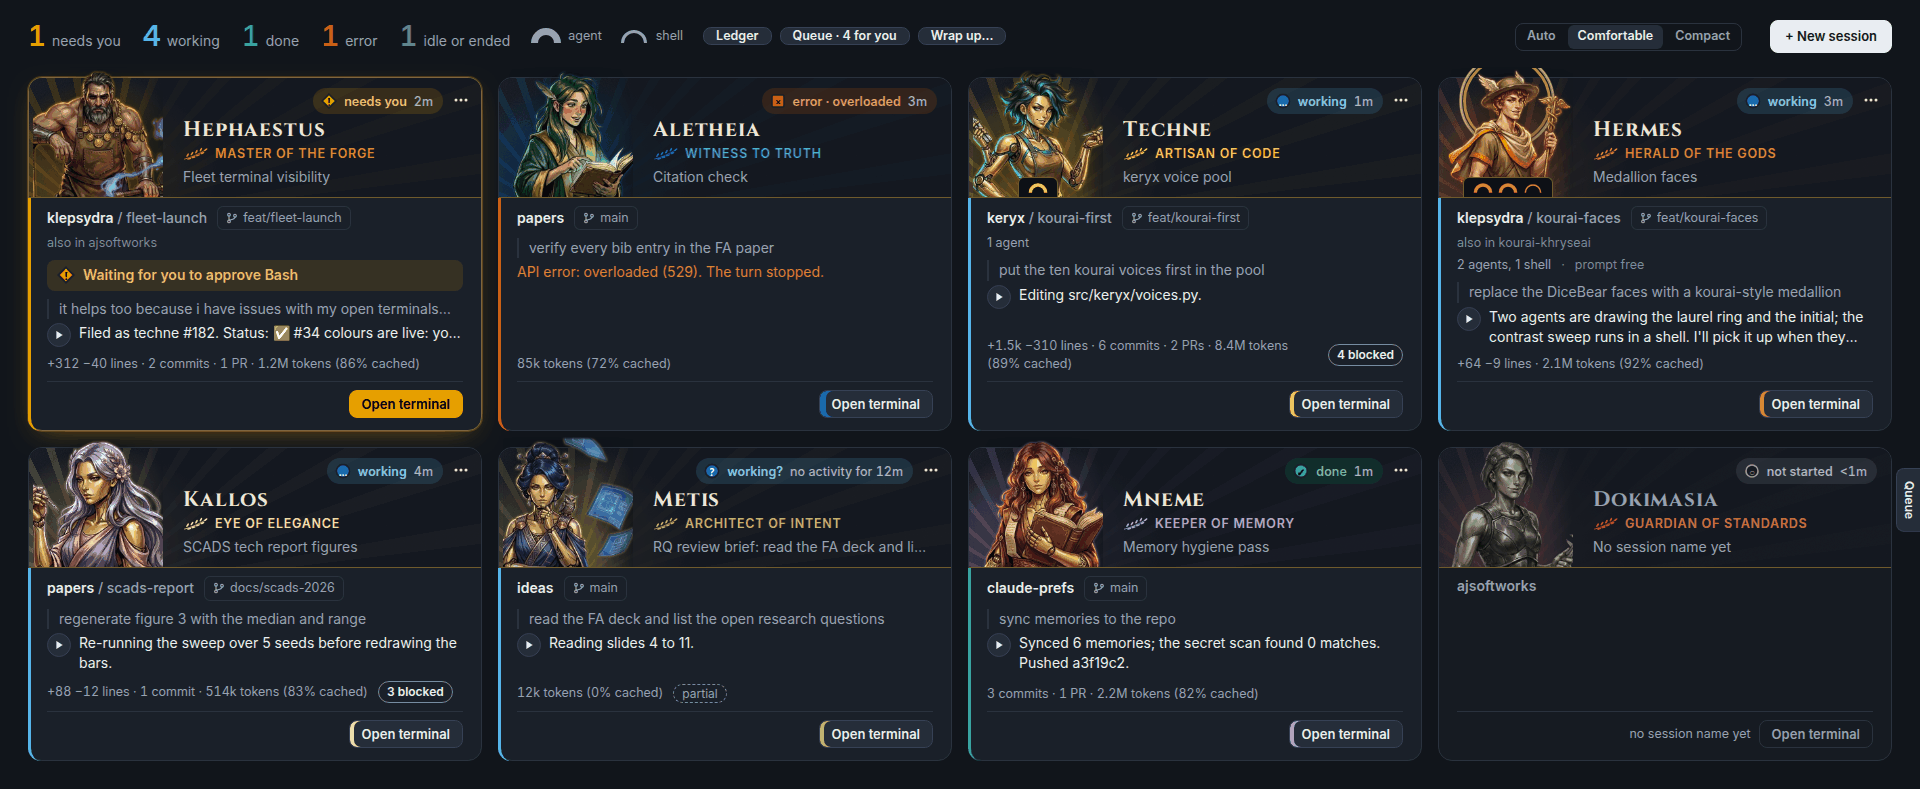
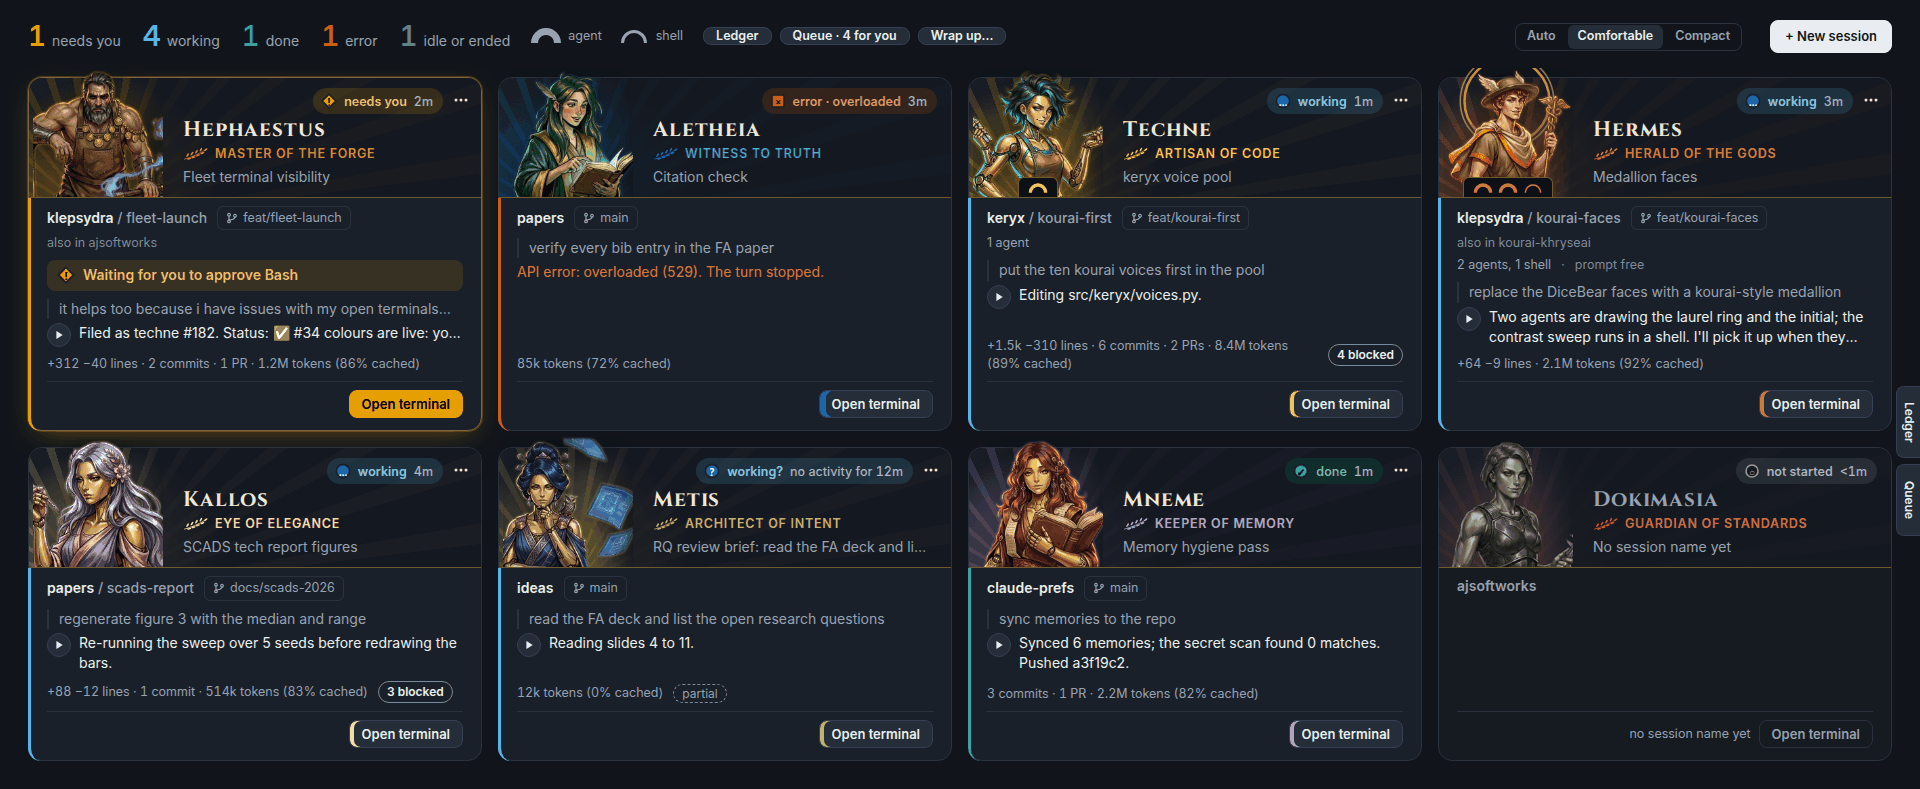
docs(readme): the Ledger shot docked with its controls; both tabs on the wall shots

Changed region(s): [[0.9688, 0.4867, 1.0, 0.6084]]

diff --git a/scripts/readme-shots.py b/scripts/readme-shots.py
@@ -169,13 +169,12 @@ def main():
         save(page.screenshot(clip=page.evaluate(CARDS)), "wall-split")
         page.close()
 
-        # The Ledger drawer.
+        # The Ledger, docked beside the wall.
         page = wall(browser, port, 1920, 1000, "demo=8", "comfortable")
         page.click("#ledger-open")
-        drawer = page.get_by_role("dialog", name="Ledger")
-        drawer.wait_for()
+        page.wait_for_selector("#ledger .ledger-content table")
         page.wait_for_timeout(SETTLE_MS)
-        save(drawer.screenshot(), "ledger")
+        save(page.locator("#ledger").screenshot(), "ledger")
         page.close()
 
         # The Queue panel, docked beside the wall.

diff --git a/README.md b/README.md
@@ -859,7 +859,7 @@ mark in `src-tauri/icons/`.
 ### The ledger
 
 <p align="center">
-  <img src="assets/ledger.png" alt="The Ledger drawer: totals for today (tokens, input, output, cache, lines, commits, pull requests, active time), tokens by character as bars, and tokens by model with the list-price estimate" width="420">
+  <img src="assets/ledger.png" alt="The Ledger docked beside the wall, with its text size, full screen and Close buttons: totals for today (tokens, input, output, cache, lines, commits, pull requests, active time), tokens by character as bars, and tokens by model with the list-price estimate" width="420">
 </p>
 
 With the `env` block above, every Claude Code session sends its
@@ -980,8 +980,9 @@ filled to the whole window. It takes the same drags, the same separator keys
 and the same text size controls, and it remembers its own width, view and
 text size. Those are kept apart from the Queue's. A chip opens it docked on
 that card's session, a chip pressed while it is open turns it to that
-session, and Close or Esc gives focus back to the chip. While it is open,
-each new snapshot from the fleet makes it read the ledger again.
+session, and Close or Esc gives focus back to the chip, while the **Ledger**
+button that shuts it keeps the focus. While it is open, new snapshots from
+the fleet make it read the ledger again, at most once every 5 seconds.
 
 ### Queue panel
 
@@ -1040,8 +1041,8 @@ works when there is no `queue.json`.
   away. While one is open neither tab shows, and the header buttons switch
   between them. Each panel keeps its own width, view and text size
   (`klepsydra.queue.*` and `klepsydra.ledger.*` in the page's storage).
-  Ctrl+Alt+B opens the Queue over an open Ledger. The Ledger has no shortcut
-  of its own.
+  Ctrl+Alt+B opens the Queue over an open Ledger, docked, full or a dialog,
+  and shuts the Ledger. The Ledger has no shortcut of its own.
 - **Full screen.** The **Full screen** button in the panel's header (beside
   Close) fills the window, keeping the text-size controls; Esc, the same
   button, or a drag of the left edge back to the right returns it to docked.
